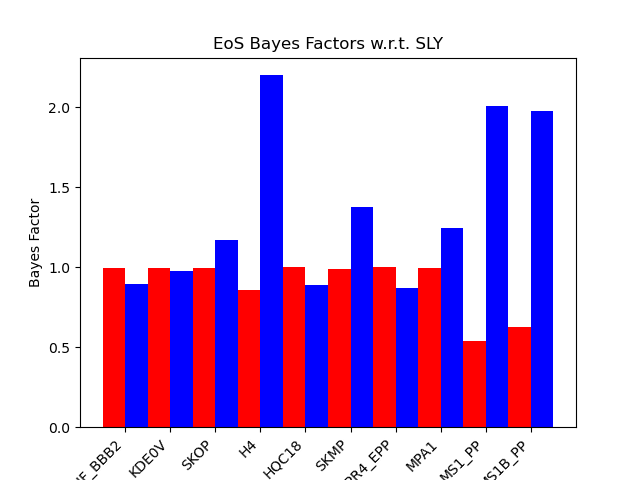
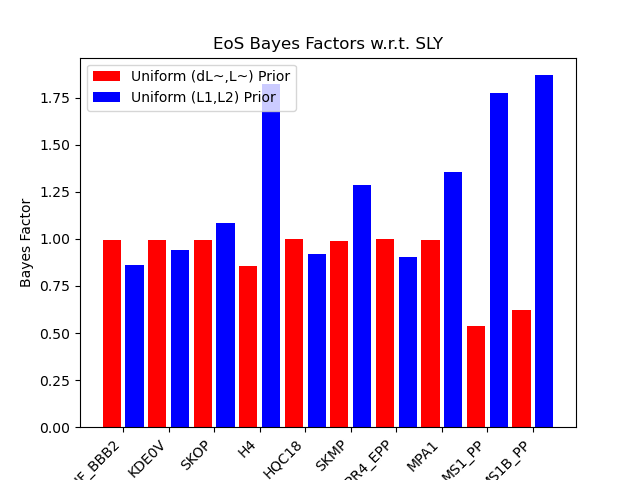
Adjusting Prior bar plots 1.

diff --git a/year2/PhenomTaylorCompare/dist_plot.py b/year2/PhenomTaylorCompare/dist_plot.py
@@ -96,7 +96,7 @@ def Dist_plot():
         plt.title("{}, {}".format(label1,label2))
         plt.savefig("plots/{}_{}.png".format(label1,label2))
 
-def BF_barplot():
+def BF_barplot(inverseWeight=False):
     #Bayes Factor comparison Task:
     #Plot bars of BFS: 
     #Uniform (dL~, L~) produced (L~, dL~), Uniform (L1, L2) produced (dL~, L~)
@@ -104,7 +104,7 @@ def BF_barplot():
     anaryaFile = "./anarya_bns_example_result.json"
     myFile = "./mine_bns_example_result.json"
     Amodsel = ems.Model_selection(anaryaFile,UpriorLTs=True,Ns=4000)
-    Mmodsel = ems.Model_selection(myFile,UpriorLTs=False,Ns=4000)
+    Mmodsel = ems.Model_selection(myFile,UpriorLTs=inverseWeight,Ns=4000)
 
     labels = ["Uniform (dL~,L~) Prior", "Uniform (L1,L2) Prior"]
 
@@ -128,13 +128,16 @@ def BF_barplot():
     x_axis = np.arange(len(eosList))
     #plt.bar(x_axis-.25,methods_BFs[0],.5,yerr=methods_uncerts[0],label=labels[0],color="red")
     #plt.bar(x_axis+.25,mehtods_BFs[1],.5,yerr=methods_uncerts[1],label=labels[1],color="blue")
-    plt.bar(x_axis-.25,methods_BFs[0],.5,label=labels[0],color="red")
-    plt.bar(x_axis+.25,methods_BFs[1],.5,label=labels[1],color="blue")
+    plt.bar(x_axis-.25,methods_BFs[0],.4,label=labels[0],color="red")
+    plt.bar(x_axis+.25,methods_BFs[1],.4,label=labels[1],color="blue")
 
     plt.xticks(x_axis,eosList,rotation=45,ha="right")
+    plt.legend()
     plt.title("EoS Bayes Factors w.r.t. SLY")
     plt.xlabel("EoSs")
     plt.ylabel("Bayes Factor")
-    titleLabel = "inverseWeight"
-    plt.savefig("plots/barplot_inverseWeight_difPriors_BFs.png")
+    #plt.savefig("plots/barplot_inverseWeight_difPriors_BFs.png")
+    if inverseWeight == True: saveLabel = "_inverseWeight_"
+    else: saveLabel = "_"
+    plt.savefig("plots/barplot{}difPriors_BFs.png".format(saveLabel))
 
